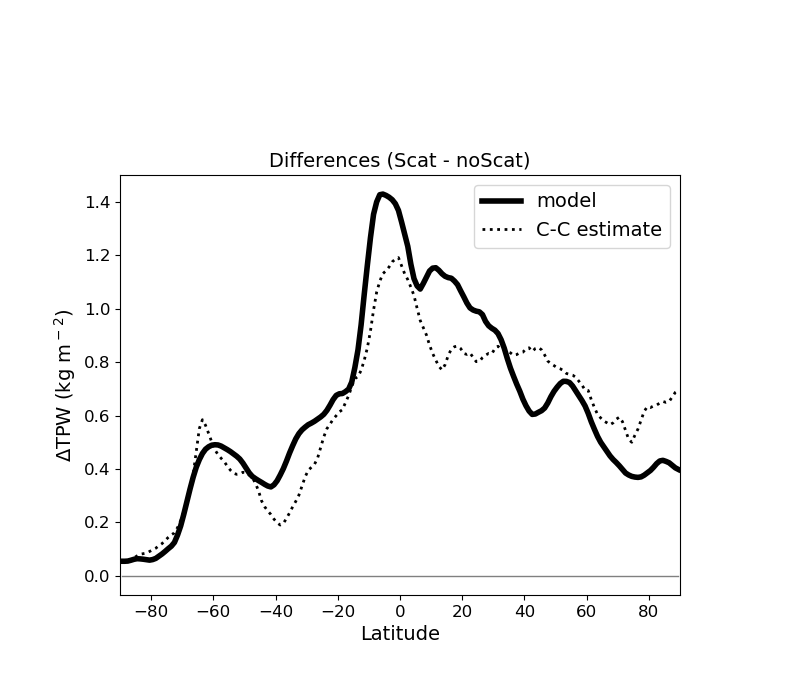
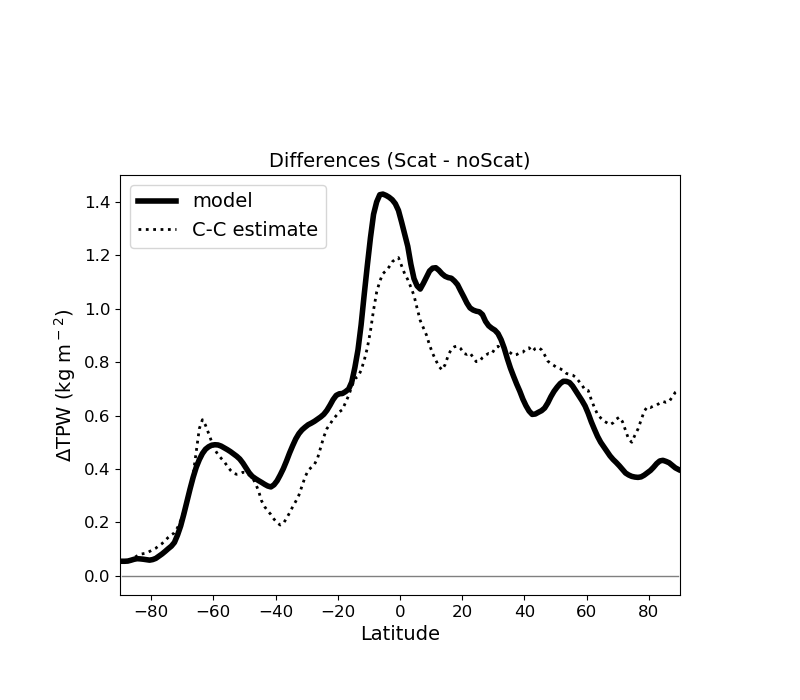
change legend size

Changed region(s): [[0.5938, 0.27, 0.8438, 0.36], [0.1562, 0.27, 0.4062, 0.36]]

diff --git a/d4_zonal_mean_wv.py b/d4_zonal_mean_wv.py
@@ -92,7 +92,7 @@ ax2=fig.add_axes([0.15,0.15,0.7,0.6])
 ax2.plot(lat[:],diff_wv[:],color="k",lw=4,alpha=1.0,label="model")
 ax2.plot(lat[:],diff_wv_cc[:],color="k",lw=2,ls=":",label="C-C estimate") #,label="\u0394TPW"
 ax2.plot(lat[:],zeros[:],color="gray",lw=1)
-ax2.legend(fontsize=14)
+ax2.legend(loc="upper left",fontsize=14)
 ax2.set_title("Differences (Scat - noScat)",fontsize=14) #+var_long_name,fontsize=12)
 ax2.set_xlabel("Latitude",fontsize=14)
 ax2.set_ylabel("\u0394TPW ("+units+")",fontsize=14)
